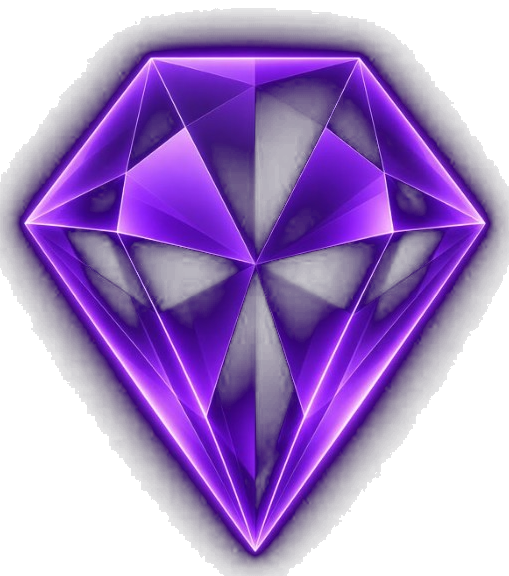
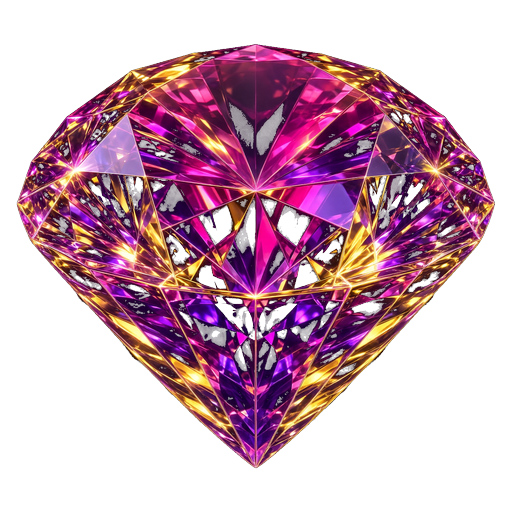
Replace sketch premium diamond with a faceted gem

diff --git a/components/discover-screen.tsx b/components/discover-screen.tsx
@@ -6,7 +6,7 @@ import { db } from "../lib/firebase";
 import { doc, setDoc, serverTimestamp } from "firebase/firestore";
 import { AdInterstitial } from "@/components/ad-placements";
 import { CountryLabel } from "@/components/country-flag";
-import { GiftArt } from "@/components/icons/gift-art";
+import { PremiumGem } from "@/components/premium-gem";
 import type { Announcement } from "@/lib/announcements";
 import { COUNTRY_OPTIONS } from "@/lib/countries";
 import { usePrivacyConsentLive } from "@/hooks/use-user-settings";
@@ -246,13 +246,7 @@ export function DiscoverScreen({
               <ChevronRight size={14} strokeWidth={2.6} className="text-[#1a1408]" />
             </span>
           </div>
-          <GiftArt
-            id="diamond"
-            size={88}
-            variant="pick"
-            instance="sponsored-premium"
-            className="yn-premium-gift shrink-0"
-          />
+          <PremiumGem className="yn-premium-gift h-[92px] w-[92px] shrink-0" />
         </button>
       </div>
 

diff --git a/app/globals.css b/app/globals.css
@@ -3003,7 +3003,13 @@ html.yn-profile-open {
 .yn-premium-gift {
   display: block;
   overflow: visible;
-  filter: drop-shadow(0 0 10px rgba(176, 38, 255, 0.55));
+  object-fit: contain;
+  filter: drop-shadow(0 0 14px rgba(245, 215, 110, 0.45)) drop-shadow(0 0 18px rgba(194, 24, 117, 0.5));
+}
+
+.yn-premium-diamond {
+  object-fit: contain;
+  filter: drop-shadow(0 0 12px rgba(245, 215, 110, 0.4)) drop-shadow(0 0 16px rgba(168, 85, 247, 0.45));
 }
 
 .yn-bottom-nav {
@@ -3091,12 +3097,6 @@ html.yn-profile-open {
   color: #ff4de8;
   background: none;
   box-shadow: none;
-}
-
-.yn-premium-diamond {
-  object-fit: contain;
-  mix-blend-mode: screen;
-  filter: drop-shadow(0 0 12px rgba(168, 85, 247, 0.55));
 }
 
 .yn-nav-slot.is-on {
